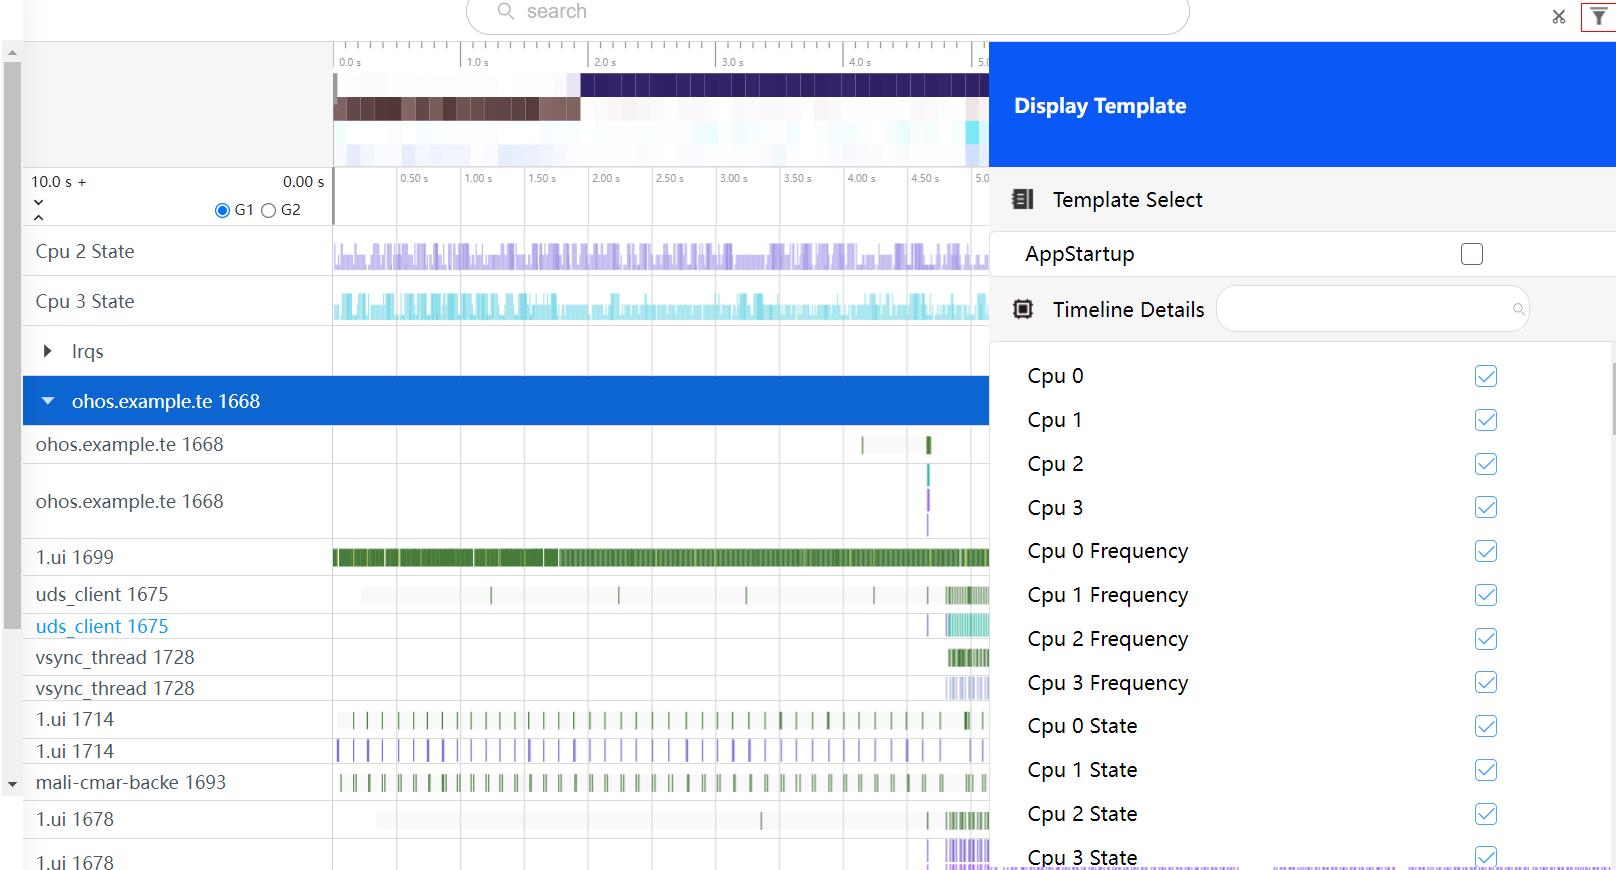
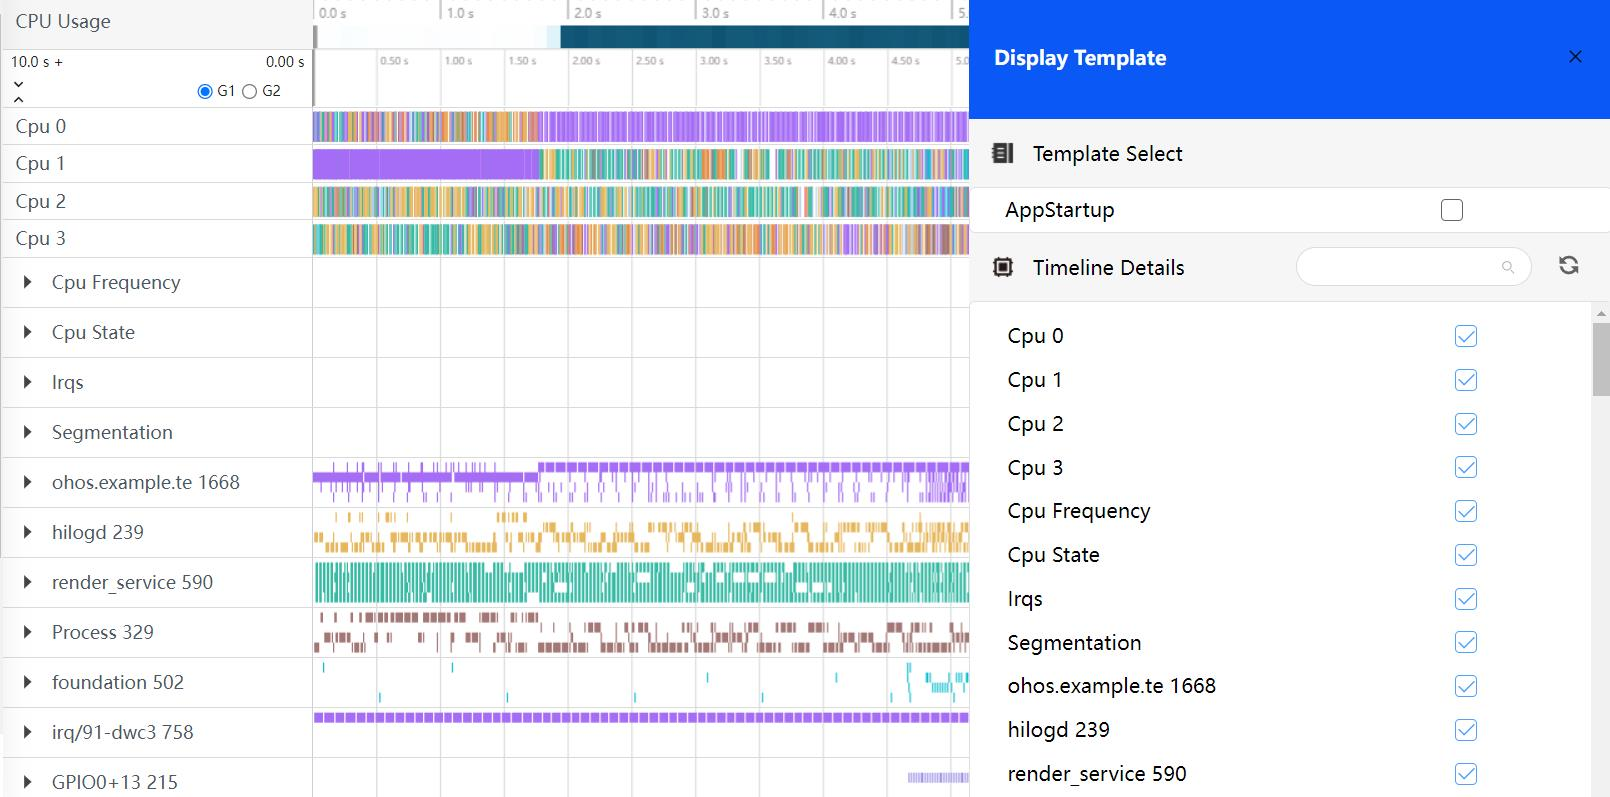
fix: 自定义模版帮助文档更新

diff --git a/ide/src/doc/quickstart_Application_operation_skills.html b/ide/src/doc/quickstart_Application_operation_skills.html
@@ -793,130 +793,106 @@
       <p class="fontColor">应用操作技巧主要展示各个小模块的使用技巧。</p>
       <h3 class="mume-header fontColor">可导入符号表</h3>
 
-      <p class="fontColor">
-        符号表导入适用于所有支持调用栈的Tab页，选择一个文件夹，获取文件下及其子文件夹的所有so文件，更新数据库中符号数据。文件夹内so的格式需要与在设备上的路径一致，并且导入的so需要是有符号的，例如下图中，选择的文件夹为import，选择导入的libnative_hook.z.so，在设备上的路径是/system/lib64/，那么在本地选择的文件夹内也需要保证路径是import/system/lib64/libnative_hook.z.so。<br />
-        <img src="../figures/OperationSkills/Operation_soimport_dir.jpg" alt="GitHub Logo" /><br />
-        以NativeMemory举例，导入NativeMemory文件，点击Call
-        info的Tab页，在搜索框中输入libnative_hook.z.so，会发现该so下的调用栈没有符号化完全。<br />
-        <img src="../figures/OperationSkills/Operation_soimport_nativehook.jpg" alt="GitHub Logo" /><br />
-        将本地编译的so通过导入按钮导入，本地导入路径是import/system/lib64/libnative_hook.z.so，红框处是导入按钮。<br />
-        <img src="../figures/OperationSkills/Operation_soimport_local.jpg" alt="GitHub Logo" /><br />
-        导入so以后，在搜索框中输入libnative_hook.z.so，会发现符号化数据已经更新。<br />
-        <img src="../figures/OperationSkills/Operation_soimport_new.jpg" alt="GitHub Logo" />
+      <p class="fontColor">符号表导入适用于所有支持调用栈的 Tab 页，选择一个文件夹，获取文件下及其子文件夹的所有 so 文件，更新数据库中符号数据。文件夹内 so 的格式需要与在设备上的路径一致，例如下图中，选择的文件夹为 import，选择导入的 libnative_hook.z.so，在设备上的路径是/system/lib64/，那么在本地选择的文件夹内也需要保证路径是 import/system/lib64/libnative_hook.z.so。<br>
+        <img src="../figures/OperationSkills/Operation_soimport_dir.jpg" alt="GitHub Logo"><br>
+        以 NativeMemory 举例，导入 NativeMemory 文件，点击 Call info 的 Tab 页，在搜索框中输入 libnative_hook.z.so，会发现该 so 下的调用栈没有符号化完全。<br>
+        <img src="../figures/OperationSkills/Operation_soimport_nativehook.jpg" alt="GitHub Logo"><br>
+        将本地编译的 so 通过导入按钮导入，本地导入路径是 import/system/lib64/libnative_hook.z.so，红框处是导入按钮。<br>
+        <img src="../figures/OperationSkills/Operation_soimport_local.jpg" alt="GitHub Logo"><br>
+        导入 so 以后，在搜索框中输入 libnative_hook.z.so，会发现符号化数据已经更新。<br>
+        <img src="../figures/OperationSkills/Operation_soimport_new.jpg" alt="GitHub Logo">
       </p>
-      <h3 class="mume-header fontColor">网页链接文件打开接口</h3>
+      <h3 class="mume-header fontColor">网页连接文件打开接口</h3>
 
-      <p class="fontColor">
-        网页链接文件打开接口可以在网址后增加文件地址，打开后直接打开trace。<br />
-        接口的url路径如下：<br />
-        <img src="../figures/OperationSkills/Opertion_urltrace.jpg" alt="GitHub Logo" />
+      <p class="fontColor">网页连接文件打开接口可以在网址后增加文件地址，打开后直接打开 trace。<br>
+        接口的 url 路径如下：<br>
+        <img src="../figures/OperationSkills/Opertion_urltrace.jpg" alt="GitHub Logo">
       </p>
       <ul class="fontColor">
         <li>
-          <pre class="smartperf-text fontColor light">
-蓝色框：是Smartperf工具的url(https://localhost:9000/application/)。
-</pre
-          >
+          <pre class="smartperf-text fontColor light">蓝色框：是Smartperf工具的url(https://localhost:9000/application/)。
+          </pre>
         </li>
         <li>
-          <pre class="smartperf-text fontColor light">
-绿色框：trace文件的url，其中
-              第一部分是?trace=(固定格式)。
-              第二部分是trace文件的url(https://iot.itocm.com:9001/upload/ftrace_small.txt),此处根据文件的url实际地址填写。
-              第三部分,&amp;link=true(固定格式)。
-</pre
-          >
+          <pre class="smartperf-text fontColor light">绿色框：trace文件的url，其中
+                        第一部分是?trace=(固定格式)。
+                        第二部分是trace文件的url(https://iot.itocm.com:9001/upload/ftrace_small.txt),此处根据文件的url实际地址填写。
+                        第三部分,&amp;link=true(固定格式)。
+          </pre>
         </li>
       </ul>
       <h3 class="mume-header fontColor">内容支持宽度可伸缩</h3>
 
-      <p class="fontColor">
-        在表格每行的表头添加一个灰色竖线，拖动时单元格宽度随之改变。<br />
-        <img src="../figures/OperationSkills/Tabdrag.jpg" alt="GitHub Logo" />
+      <p class="fontColor">在表格每行的表头添加一个灰色竖线，拖动时单元格宽度随之改变。<br>
+        <img src="../figures/OperationSkills/Tabdrag.jpg" alt="GitHub Logo">
       </p>
       <h3 class="mume-header fontColor">一键展开和收起，逐级展开和收起</h3>
 
-      <p class="fontColor">
-        将树形表格全部改为默认收起，在表头左上角添加双尖箭头图标,默认箭头朝外，点击图标，表格的每一层都展开，图标上的箭头改为朝里面，再次点击表格每一层都收起，图标上的箭头改为朝外面。<br />
-        <img src="../figures/OperationSkills/Taboneclick.jpg" alt="GitHub Logo" />
+      <p class="fontColor">将树形表格全部改为默认收起，在表头左上角添加双尖箭头图标,默认箭头朝外，点击图标，表格的每一层都展开，图标上的箭头改为朝里面，再次点击表格每一层都收起，图标上的箭头改为朝外面。<br>
+        <img src="../figures/OperationSkills/Taboneclick.jpg" alt="GitHub Logo">
       </p>
-      <h3 class="mume-header fontColor">
-        支持shift+m多次框选，框选列表显示和操作（跳转，取消）,快捷键跳转ctrl+[/]和一键取消
-      </h3>
+      <h3 class="mume-header fontColor">支持 shift+m 多次框选，框选列表显示和操作（跳转，取消）,快捷键跳转 ctrl+[/]和一键取消</h3>
 
-      <p class="fontColor">
-        每次框选泳道图后，按下shift+m键，在当前框选的开始和结束位置出现卡尺，如果只按下m键，会将上一次按m键出现的卡尺清除，在当前框选位置画卡尺，页面上每个卡尺都放进tab页中，在tab页中可以给卡尺改变颜色和移除旗子。用快捷键改变当前选中的卡尺。按下快捷键“ctrl+[”或“ctrl+]”的时候，会跳转到当前选中卡尺的上\下一个卡尺上，也就是上\下一个卡尺两侧变为实心，对应表格中的那行背景颜色变浅蓝色。
-      </p>
-      <h3 class="mume-header fontColor">
-        旗子标记可快速跳转，框选列表显示和操作（跳转，取消）,快捷跳转ctrl+,/.和一键取消
-      </h3>
+      <p class="fontColor">每次框选泳道图后，按下 shift+m 键，在当前框选的开始和结束位置出现卡尺，如果只按下 m 键，会将上一次按 m 键出现的卡尺清除，在当前框选位置画卡尺，页面上每个卡尺都放进 tab 页中，在 tab 页中可以给卡尺改变颜色和移除旗子。用快捷键改变当前选中的卡尺。按下快捷键“ctrl+[”或“ctrl+]”的时候，会跳转到当前选中卡尺的上\下一个卡尺上，也就是上\下一个卡尺两侧变为实心，对应表格中的那行背景颜色变浅蓝色。</p>
+      <h3 class="mume-header fontColor">旗子标记可快速跳转，框选列表显示和操作（跳转，取消）,快捷跳转 ctrl+,/.和一键取消</h3>
 
-      <p class="fontColor">
-        在时间刻度下方点击会出现旗子和tab页，每次点击都将旗子都放进tab页中，在tab页中可以给旗子改变颜色和移除旗子。用快捷键改变当前选中的旗子。按下快捷键“ctrl+，”或“ctrl+.”的时候，会跳转到当前选中旗子的上\下一个旗子上，也就是上\下一个旗子变为实心有旗杆，对应表格中的那行背景颜色变浅蓝色。<br />
-        <img src="../figures/OperationSkills/rowskillflag.jpg" alt="GitHub Logo" />
+      <p class="fontColor">在时间刻度下方点击会出现旗子和 tab 页，每次点击都将旗子都放进 tab 页中，在 tab 页中可以给旗子改变颜色和移除旗子。用快捷键改变当前选中的旗子。按下快捷键“ctrl+，”或“ctrl+.”的时候，会跳转到当前选中旗子的上\下一个旗子上，也就是上\下一个旗子变为实心有旗杆，对应表格中的那行背景颜色变浅蓝色。<br>
+        <img src="../figures/OperationSkills/rowskillflag.jpg" alt="GitHub Logo">
       </p>
       <h3 class="mume-header fontColor">泳道图支持一键收起和展开（收起前的状态）</h3>
 
-      <p class="fontColor">
-        点击时间刻度的最左边的双箭头，可以对已展开的泳道图进行一键收起和展开。<br />
-        <img src="../figures/OperationSkills/rowskilon.jpg" alt="GitHub Logo" />
+      <p class="fontColor">点击时间刻度的最左边的双箭头，可以对已展开的泳道图进行一键收起和展开。<br>
+        <img src="../figures/OperationSkills/rowskilon.jpg" alt="GitHub Logo">
       </p>
-      <h3 class="mume-header fontColor">单个泳道图显示为多行时可折叠为1行（收藏和非收藏）</h3>
+      <h3 class="mume-header fontColor">单个泳道图显示为多行时可折叠为 1 行（收藏和非收藏）</h3>
 
-      <p class="fontColor">
-        单个泳道图点击会将泳道图折叠为一行，折叠后的字体是蓝色。<br />
-        <img src="../figures/OperationSkills/Tabskillfold.jpg" alt="GitHub Logo" />
+      <p class="fontColor">单个泳道图点击会将泳道图折叠为一行，折腾后的字体是蓝色。<br>
+        <img src="../figures/OperationSkills/Tabskillfold.jpg" alt="GitHub Logo">
       </p>
       <h3 class="mume-header fontColor">已支持的泳道图按照模板分类显示，NaitveMemory，Hisysevent，应用内存等</h3>
 
-      <p class="fontColor">
-        导入trace文件后，页面右上角的出现漏斗图标，点击会出现Display Template页面，Template
-        Select区域显示已经添加到显示模板中的泳道图，每类泳道图后面会有一个多选框，默认不勾选，如果勾选页面上就只保留勾选的泳道图。<br />
-        <img src="../figures/OperationSkills/Tabskilltemple.jpg" alt="GitHub Logo" />
+      <p class="fontColor">导入 trace 文件后，页面右上角的出现漏斗图标，点击会出现 Display Template 页面，Template Select 区域显示已经添加到显示模板中的泳道图，每类泳道图后面会有一个多选框，默认不勾选，如果勾选页面上就只保留勾选的泳道图。<br>
+        <img src="../figures/OperationSkills/Tabskilltemple.jpg" alt="GitHub Logo">
+      </p>
+      <p class="fontColor">点击<img src="../figures/OperationSkills/Tabskilltempleshow.jpg" alt="GitHub Logo">图标会以子系统--&gt;部件--&gt;泳道层级去显示：<br>
+        <img src="../figures/OperationSkills/Tabskillsubsystem.jpg" alt="GitHub Logo"><br>
+        点击<img src="../figures/OperationSkills/subsystemupload.jpg" alt="GitHub Logo">导入模板的json配置，点击<img src="../figures/OperationSkills/subsystemdownload.jpg" alt="GitHub Logo">下载模板的json配置，模板的配置文件格式如下：<br>
+        <img src="../figures/OperationSkills/subsystemsconfig.jpg" alt="GitHub Logo">
       </p>
       <h3 class="mume-header fontColor">所有进程的用户输入事件归一显示，观察操作事件和对象</h3>
 
-      <p class="fontColor">
-        对于用户InputEvent会绘制到固定的泳道图。<br />
-        <img src="../figures/OperationSkills/rowskillinput.jpg" alt="GitHub Logo" />
+      <p class="fontColor">对于用户 InputEvent 会绘制到固定的泳道图。<br>
+        <img src="../figures/OperationSkills/rowskillinput.jpg" alt="GitHub Logo">
       </p>
       <h3 class="mume-header fontColor">支持收藏的泳道图整体画布可伸缩</h3>
 
-      <p class="fontColor">
-        收藏以后的泳道图可以在红线位置处上下伸缩拖动。<br />
-        <img src="../figures/OperationSkills/collectskilldrag.jpg" alt="GitHub Logo" />
+      <p class="fontColor">收藏以后的泳道图可以在红线位置处上下伸缩拖动。<br>
+        <img src="../figures/OperationSkills/collectskilldrag.jpg" alt="GitHub Logo">
       </p>
-      <h3 class="mume-header fontColor">用户自定义分组化收藏（2组），及一键取消所有收藏</h3>
+      <h3 class="mume-header fontColor">用户自定义分组化收藏（2 组），及一键取消所有收藏</h3>
 
-      <p class="fontColor">
-        选择界面上的G1和G2，可以根据自己的需求将泳道图收藏到对应G1或者G2中，点击G1和G2旁边的星号可以一键取消所有收藏。<br />
-        <img src="../figures/OperationSkills/collectskillg.jpg" alt="GitHub Logo" />
+      <p class="fontColor">选择界面上的 G1 和 G2，可以根据自己的需求将泳道图收藏到对应 G1 或者 G2 中，点击 G1 和 G2 旁边的星号可以一键取消所有收藏。<br>
+        <img src="../figures/OperationSkills/collectskillg.jpg" alt="GitHub Logo">
       </p>
-      <h3 class="mume-header fontColor">trace顶部的cpu负载预览颜色随着负载降低，亮度降低的能力对比度提升</h3>
+      <h3 class="mume-header fontColor">trace 顶部的 cpu 负载预览颜色随着负载降低，亮度降低的能力对比度提升</h3>
 
-      <p class="fontColor">
-        CPU负载颜色的亮度，负载越大颜色更深，负载越小颜色越浅。<br />
-        <img src="../figures/OperationSkills/colorcontrast.jpg" alt="GitHub Logo" />
+      <p class="fontColor">CPU 负载颜色的亮度，负载越大颜色更深，负载越小颜色越浅。<br>
+        <img src="../figures/OperationSkills/colorcontrast.jpg" alt="GitHub Logo">
       </p>
-      <h3 class="mume-header fontColor">
-        导航栏/泳道图背景颜色支持颜色可选，字体颜色可感知slice的颜色而进行变化，颜色动态可配
-      </h3>
+      <h3 class="mume-header fontColor">导航栏/泳道图背景颜色支持颜色可选，字体颜色可感知 slice 的颜色而进行变化，颜色动态可配</h3>
 
-      <p class="fontColor">
-        给用户提供两种模式，浅色模式（导航栏白底黑字，泳道图颜色偏淡）和深色模式（导航栏黑底白字，泳道图颜色偏深），点击最左下方的小桶标志用户可以按需选择，并且用户可以自定义systemTrace页面的颜色，给用户更多自由，自己动手设置自己喜欢的颜色，提升用户体验。<br />
-        <img src="../figures/OperationSkills/colorchoose.jpg" alt="GitHub Logo" />
+      <p class="fontColor">给用户提供两种模式，浅色模式（导航栏白底黑字，泳道图颜色偏淡）和深色模式（导航栏黑底白字，泳道图颜色偏深），点击最左下方的小桶标志用户可以按需选择，并且用户可以自定义 systemTrace 页面的颜色，给用户更多自由，自己动手设置自己喜欢的颜色，提升用户体验。<br>
+        <img src="../figures/OperationSkills/colorchoose.jpg" alt="GitHub Logo">
       </p>
-      <h3 class="mume-header fontColor">Trace抓取动态可停</h3>
+      <h3 class="mume-header fontColor">Trace 抓取动态可停</h3>
 
-      <p class="fontColor">
-        在抓取trace过程中，点击StopRecord按钮会对抓取命令进行启停,等待抓取停止命令返回后,将生成的文件拉取下来进行文件的解析。<br />
-        <img src="../figures/OperationSkills/tracestop.jpg" alt="GitHub Logo" />
+      <p class="fontColor">在抓取 trace 过程中，点击 StopRecord 按钮会对抓取命令进行启停,等待抓取停止命令返回后,将生成的文件拉取下来进行文件的解析。<br>
+        <img src="../figures/OperationSkills/tracestop.jpg" alt="GitHub Logo">
       </p>
-      <h3 class="mume-header fontColor">Smartperf web端集成hdc命令能力</h3>
+      <h3 class="mume-header fontColor">Smartperf web 端集成 hdc 命令能力</h3>
 
-      <p class="fontColor">
-        在现有的配置界面上，新增一个Web版本的shell界面，可以支持shell命令。<br />
-        <img src="../figures/OperationSkills/shellconfig.jpg" alt="GitHub Logo" />
+      <p class="fontColor">在现有的配置界面上，新增一个 Web 版本的 shell 界面，可以支持 shell 命令。<br>
+        <img src="../figures/OperationSkills/shellconfig.jpg" alt="GitHub Logo">
       </p>
     </div>
 

diff --git a/ide/src/doc/md/quickstart_Application_operation_skills.md b/ide/src/doc/md/quickstart_Application_operation_skills.md
@@ -59,6 +59,12 @@
 导入 trace 文件后，页面右上角的出现漏斗图标，点击会出现 Display Template 页面，Template Select 区域显示已经添加到显示模板中的泳道图，每类泳道图后面会有一个多选框，默认不勾选，如果勾选页面上就只保留勾选的泳道图。
 ![GitHub Logo](../../figures/OperationSkills/Tabskilltemple.jpg)
 
+点击![GitHub Logo](../../figures/OperationSkills/Tabskilltempleshow.jpg)图标会以子系统-->部件-->泳道层级去显示：
+![GitHub Logo](../../figures/OperationSkills/Tabskillsubsystem.jpg)
+点击![GitHub Logo](../../figures/OperationSkills/subsystemupload.jpg)导入模板的json配置，点击![GitHub Logo](../../figures/OperationSkills/subsystemdownload.jpg)下载模板的json配置，模板的配置文件格式如下：
+![GitHub Logo](../../figures/OperationSkills/subsystemsconfig.jpg)
+
+
 ### 所有进程的用户输入事件归一显示，观察操作事件和对象
 
 对于用户 InputEvent 会绘制到固定的泳道图。
